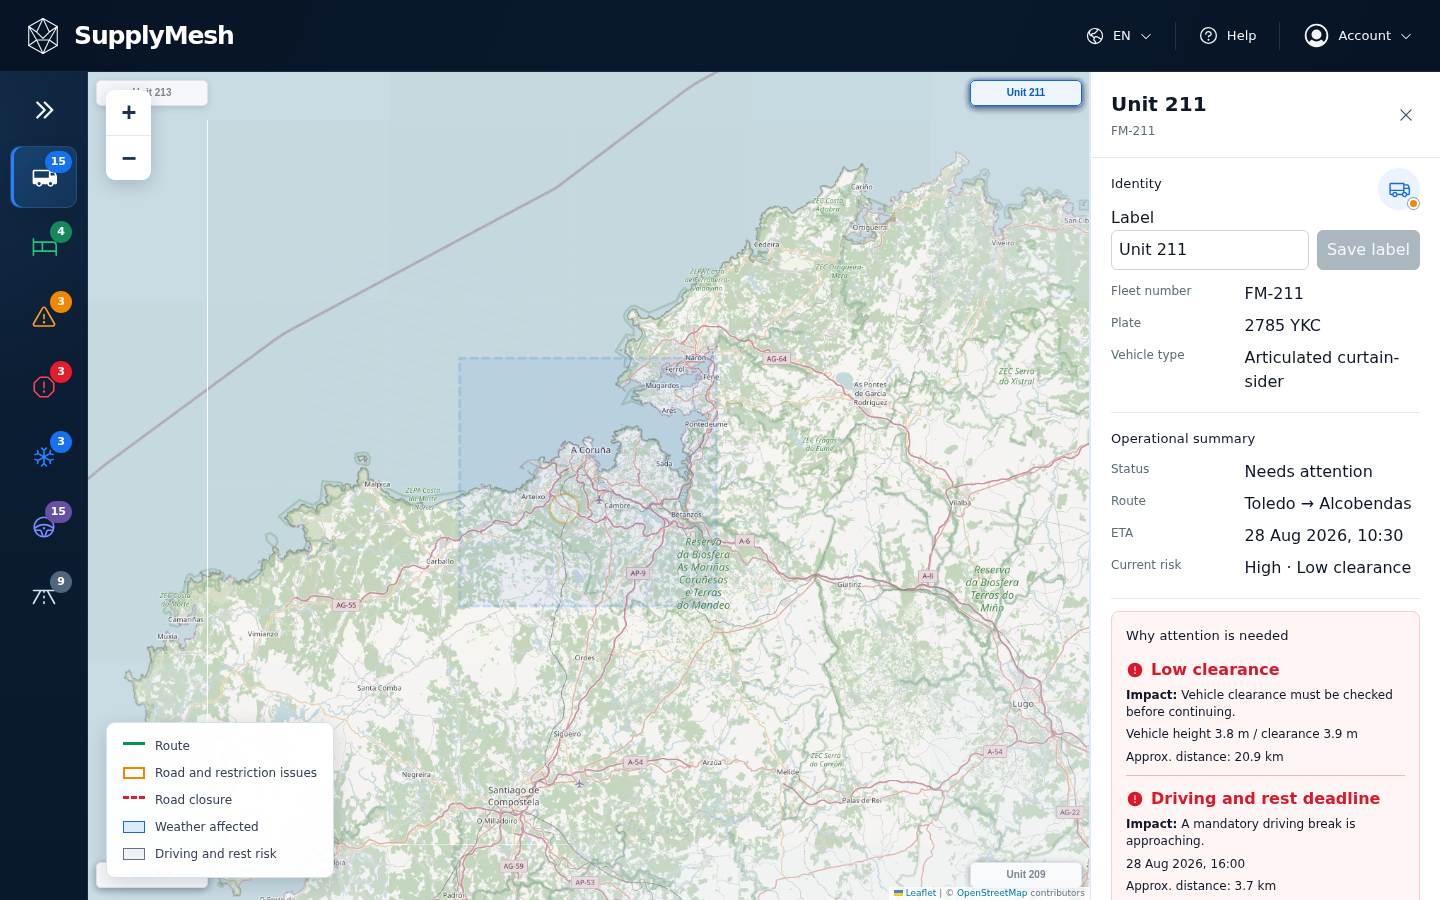
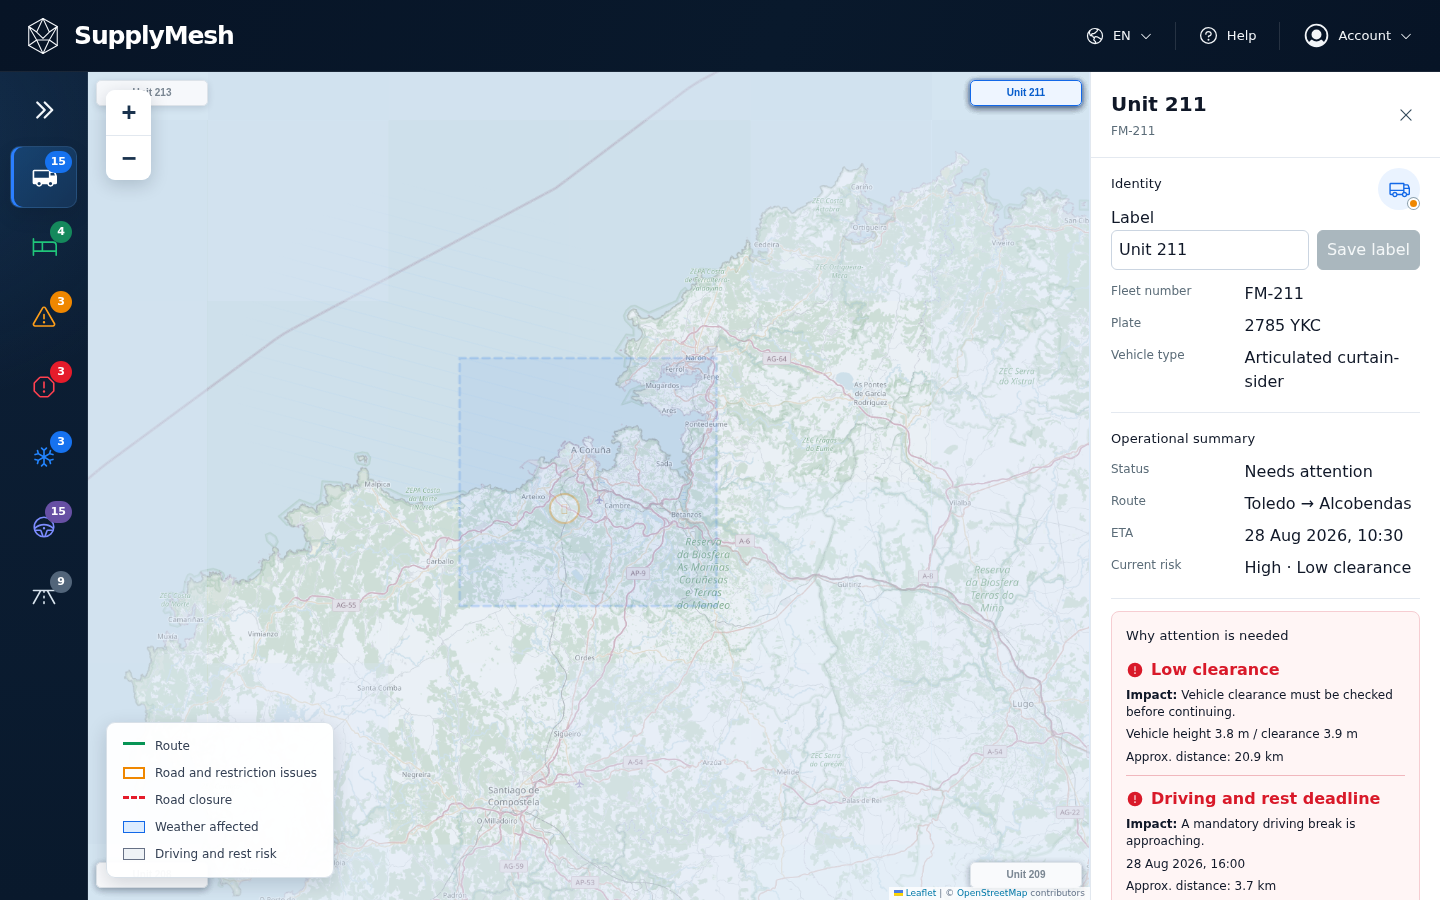
fix(contracts): clean up truthfulness and dimensions contract schemas

Changed region(s): [[0.0938, 0.1867, 0.7812, 1.0], [0.0625, 0.4978, 0.0938, 0.5289]]

diff --git a/scripts/validate-native-webmcp.ts b/scripts/validate-native-webmcp.ts
@@ -111,9 +111,9 @@ try {
         type: "object",
         properties: {
           vehicleType: { type: "string", minLength: 1 },
-          lengthMeters: { type: "number", minimum: 0 },
-          heightMeters: { type: "number", minimum: 0 },
-          weightTonnes: { type: "number", minimum: 0 },
+          lengthMeters: { type: "number", exclusiveMinimum: 0 },
+          heightMeters: { type: "number", exclusiveMinimum: 0 },
+          weightTonnes: { type: "number", exclusiveMinimum: 0 },
         },
         required: ["vehicleType", "lengthMeters", "heightMeters", "weightTonnes"],
         additionalProperties: false,
@@ -143,9 +143,9 @@ try {
         type: "object",
         properties: {
           vehicleType: { type: "string", minLength: 1 },
-          lengthMeters: { type: "number", minimum: 0 },
-          heightMeters: { type: "number", minimum: 0 },
-          weightTonnes: { type: "number", minimum: 0 },
+          lengthMeters: { type: "number", exclusiveMinimum: 0 },
+          heightMeters: { type: "number", exclusiveMinimum: 0 },
+          weightTonnes: { type: "number", exclusiveMinimum: 0 },
         },
         required: ["vehicleType", "lengthMeters", "heightMeters", "weightTonnes"],
         additionalProperties: false,

diff --git a/src/platform/webmcp/registerOperationalTools.ts b/src/platform/webmcp/registerOperationalTools.ts
@@ -23,9 +23,9 @@ const dimensionsInputSchema: JsonSchema = {
   type: "object",
   properties: {
     vehicleType: { type: "string", minLength: 1 },
-    lengthMeters: { type: "number", minimum: 0 },
-    heightMeters: { type: "number", minimum: 0 },
-    weightTonnes: { type: "number", minimum: 0 },
+    lengthMeters: { type: "number", exclusiveMinimum: 0 },
+    heightMeters: { type: "number", exclusiveMinimum: 0 },
+    weightTonnes: { type: "number", exclusiveMinimum: 0 },
   },
   required: ["vehicleType", "lengthMeters", "heightMeters", "weightTonnes"],
   additionalProperties: false,

diff --git a/src/domain/entities.ts b/src/domain/entities.ts
@@ -75,7 +75,7 @@ export type VehicleRenameCommand = { vehicleId: string; label: string };
 export type VehicleCreateCommand = {
   fleetNumber: string;
   plate: string;
-  label: string;
+  label?: string;
   dimensions: Dimensions;
   cargo: Omit<Cargo, "id">;
   routeId?: string;

diff --git a/README.md b/README.md
@@ -9,19 +9,19 @@ SupplyMesh is a deterministic, map-first fleet operations console built with Rea
 ### 1. Authoritative Recovery Workflow
 - **Pre-Dispatch Context**: Detects vertical clearance violations (e.g. Unit 211 / FM-211 clearance incident: 3.90 m restriction vs 4.00 m required clearance).
 - **Alternative Route Comparison**: Deterministic geometric and temporal evaluation between the current blocked corridor and the clearance alternative.
-- **Exclusively Human Approval**: Agents can compare and stage candidate plans (`recovery_plan_stage`), but plan approval (`recoveryHuman.approvePlan`) and mutation execution (`recoveryExecution.executePlan`) are strictly reserved for human operators. Agent-asserted execution facts are rejected.
+- **Exclusively Human Approval**: Plan approval is strictly reserved for human operators. Automated agents can inspect context, compare alternatives, and stage candidate plans (`recovery_plan_stage`). Only after explicit human approval does `recovery_plan_execute` appear on the tool surface so the agent can execute exactly the authorized plan. Agent-asserted execution facts or unapproved plan executions are rejected.
 - **Audited Execution & Receipt Lineage**: Cryptographic digest checks, singleton route-vehicle bindings, and CAS revision verification emit an immutable receipt upon successful recovery.
 
 ### 2. Fleet Edit & Operational Tools
-- **11 Native WebMCP Tools**:
-  - **Operational**: `scenario_current`, `fleet_status`, `vehicle_get`, `vehicle_rename`, `fleet_vehicle_create`, `fleet_vehicle_update`, `fleet_vehicle_assign_route`, `fleet_vehicle_delete`.
-  - **Recovery**: `recovery_operations_context`, `recovery_options_compare`, `recovery_plan_stage`.
+- **WebMCP Tool Surface (8 Stable Operational Tools + Dynamic Recovery Surface)**:
+  - **Operational Tools (8 stable)**: `scenario_current`, `fleet_status`, `vehicle_get`, `vehicle_rename`, `fleet_vehicle_create`, `fleet_vehicle_update`, `fleet_vehicle_assign_route`, `fleet_vehicle_delete`.
+  - **Recovery Tools (dynamic lifecycle, 3 in IDLE = 11 initial tools)**: `recovery_operations_context`, `recovery_options_compare`, `recovery_plan_stage`. After human approval of a staged plan, `recovery_plan_execute` is dynamically exposed for the agent to execute strictly the authorized plan.
 - **Strict Domain Validation**: Full runtime validation for `cargo` (`description`, `refrigeration` enum, `priority` enum) and `dimensions` (`vehicleType`, finite positive `lengthMeters`, `heightMeters`, `weightTonnes`), with `additionalProperties: false`.
 - **Deterministic Time & Geometry**: Avoids `Date.now()`; derives timing from the scenario clock (`2026-08-28T09:00:00.000Z`). Destination position defaults to the route's terminal coordinate.
 - **Route Ownership Persistence**: Reassigning or unassigning a route synchronizes `Route.vehicleId` across the scenario and persists in browser `localStorage`. Selecting any newly created or reassigned vehicle immediately highlights its active corridor.
 
 ### 3. Close Range Operational Mode
-- **Zoom-Driven 2D/3D Transition**: At overview zoom levels (`zoom < 14.5`), vehicles render as high-contrast 2D pins. At close range (`zoom >= 14.5`), vehicles transition into 3D volumetric truck models with accurate heading bearing along the route tangent.
+- **Zoom-Driven 2D/3D Transition**: At overview zoom levels (`zoom < 14`), vehicles render as high-contrast 2D pins. At close range (`zoom >= 14`), vehicles transition into 3D volumetric truck models with accurate heading bearing along the route tangent.
 - **Follow Camera Decoupling**: Selection focuses and tracks the vehicle, but user map interaction (drag, pan, zoom) gracefully pauses camera follow without dropping 3D rendering.
 - **Physical Hazards in 3D**:
   - **Authoritative Red Bridge Hazard**: Rendered at coordinate `[-3.897481, 40.149232]` on `route-011`, displaying clearance comparison (`4.00 m required · 3.90 m available`).
@@ -29,7 +29,7 @@ SupplyMesh is a deterministic, map-first fleet operations console built with Rea
   - **Landslide**: Lightweight rock/debris scatter in mountain corridors.
 
 ### 4. Localized Weather Hazards
-- Geographically bound weather overlays strictly confined to risk polygon boundaries (never covering the whole viewport, and hidden at `zoom < 8`):
+- Procedural weather visual effects localized and centered within geographical risk zones (never covering the whole viewport, and hidden at `zoom < 8`), rather than strictly hard-clipped to the polygon geometry:
   - **Heavy Rain**: Galicia corridor.
   - **Severe Snow**: León mountain pass.
   - **Severe Wind & Storm**: Valle del Ebro corridor.
@@ -51,7 +51,7 @@ SupplyMesh enforces strict verification gates across all tiers:
 | :--- | :--- | :--- |
 | **ESLint** | Source & test linting | **0 errors, 0 warnings** |
 | **TypeScript** | Strict compiler typecheck (`tsc -b`) | **0 errors** |
-| **Vitest** | Unit & domain capabilities | **35 / 35 test files passed (364 / 364 tests)** |
+| **Vitest** | Unit & domain capabilities | **35 / 35 test files passed (366 / 366 tests)** |
 | **Playwright** | End-to-end user workflows | **19 / 19 passed** |
 | **WebMCP Native** | Real browser tool execution | **11 registered tools, clean 11→0 unload, signal isolation verified** |
 | **Route Verifier** | Offline ORS routes | **15 routes verified (45,577 coordinates, revision `16e9952c...`)** |
@@ -90,7 +90,7 @@ bun run build
 ## Limitations & Boundaries
 
 - **Operating Region**: Focused strictly on the Iberian corridor (`spain-v1`). Fictional straight-line regional routes (France/Germany) have been eliminated to uphold operational data truth until real ORS road networks are computed.
-- **Authoritative Recovery**: Automated agents can explore context, compare alternatives, and stage plans, but execution requires human authorization.
+- **Authoritative Recovery**: Automated agents can explore context, compare alternatives, and stage plans. Approval is exclusively human; once approved, `recovery_plan_execute` is dynamically exposed for the agent to execute strictly the authorized plan.
 - **Persistence**: Operational state changes are persisted locally in browser `localStorage`.
 - **WebMCP Native Support**: Requires a browser supporting the WebMCP specification (e.g. Chromium with `--enable-features=WebMCP`), or the DEV simulation mode during local development.
 
